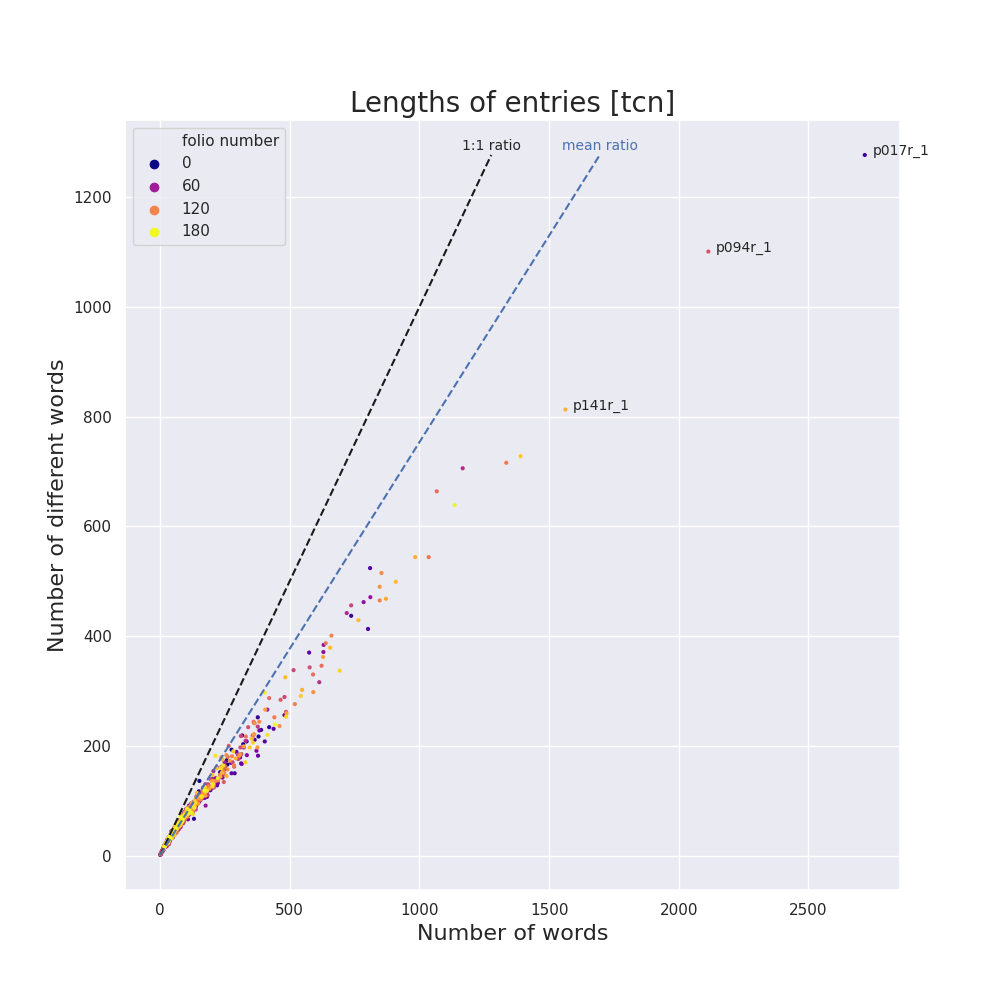
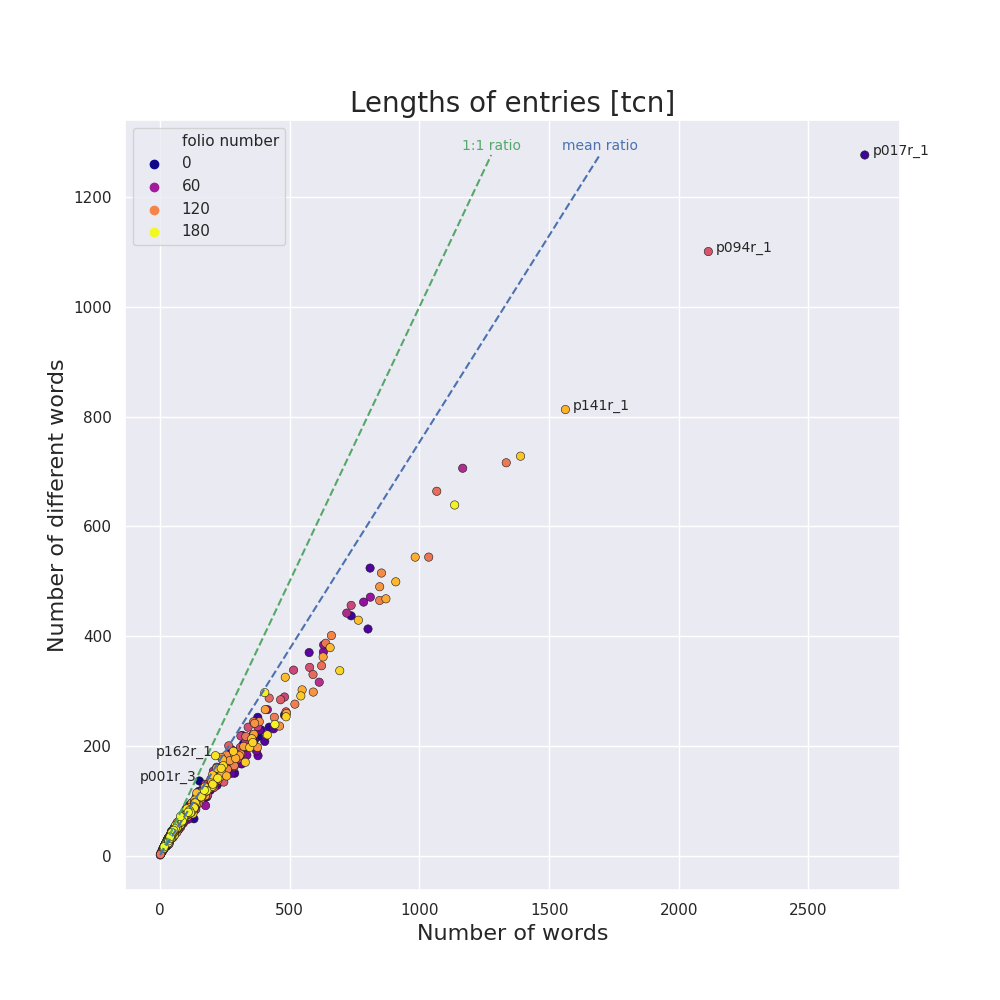
improved scatterplots

diff --git a/manuscript_visualizations.py b/manuscript_visualizations.py
@@ -114,7 +114,8 @@ def tags_bubbleplot(search_tags, ylabels, filename, title):
                 normalized_counts.append(normalized_count)
 
     df = pandas.DataFrame({"entries": entries, "tags": tags, "counts": counts})
-    df_normalized = pandas.DataFrame({"entries": entries, "tags": tags, "counts": normalized_counts})
+    df_normalized = pandas.DataFrame({"entries": entries, "tags": tags,
+                                      "counts": normalized_counts})
 
     data_frames = [df, df_normalized]
     title_appendices = ["", " (normalized by entry length)"]
@@ -196,9 +197,11 @@ def categories_barplot():
 
     barplt.set_ylabel("Number of entries", fontsize = 18)
     barplt.set_xlabel("Categories", fontsize = 18)
-    barplt.set_title("How many entries there are for each category", fontsize = 20)
+    barplt.set_title("How many entries there are for each category",
+                     fontsize = 20)
 
-    barplt.set_xticklabels(barplt.get_xticklabels(), rotation = 90, fontsize = 16)
+    barplt.set_xticklabels(barplt.get_xticklabels(), rotation = 90,
+                           fontsize = 16)
     fig = barplt.get_figure()
     fig.savefig(viz_path + "categories_barplot.png")
     plt.close()
@@ -314,7 +317,8 @@ def tagged_length_barplot(tags, xlabels, filename):
 
         barplt.set_ylabel("Average number of words inside tag", fontsize = 16)
         barplt.set_xlabel("Tag", fontsize = 16)
-        barplt.set_title(f"How many words there inside a tag [{manuscript_version}]", fontsize = 18)
+        barplt.set_title(f"How many words there inside a tag [{manuscript_version}]",
+                         fontsize = 18)
         barplt.set_xticklabels(xlabels, rotation = 90, fontsize = 14)
 
         fig = barplt.get_figure()
@@ -366,6 +370,13 @@ def entries_lengths_scatterplot(logscale):
                                "normalized_lengths": normalized_lengths,
                                "folio number": folios})
 
+        max_words = np.max(lengths)
+        max_diff_words = np.max(normalized_lengths)
+        minmax = np.min([max_words, max_diff_words])
+
+        ratios = [lengths[i]/normalized_lengths[i] for i in range(len(lengths))]
+        mean_ratio = np.mean(ratios)
+
         plt.subplots(figsize = (10, 10))
         #plt.gcf().subplots_adjust(left = 0.05)
         #plt.gcf().subplots_adjust(right = 0.95)
@@ -374,8 +385,8 @@ def entries_lengths_scatterplot(logscale):
 
         scatter = sns.scatterplot(x = "lengths", y = "normalized_lengths",
                                   hue = "folio number", data = df,
-                                  linewidth = 0, alpha = 1, size_norm = 1,
-                                  palette = "plasma", marker = ".")
+                                  linewidth = 0.4, alpha = 1, size_norm = 1,
+                                  palette = "plasma", edgecolor = "k")
 
         for line in range(0, df.shape[0]):
             if (df.lengths[line] > 1500):
@@ -385,6 +396,10 @@ def entries_lengths_scatterplot(logscale):
             if (df.lengths[line] < 2 and logscale):
                 scatter.text(df.lengths[line]*1.1, df.normalized_lengths[line],
                              df.entries[line], horizontalalignment = "left",
+                             fontsize = 10)
+            if (df.entries[line] == "p162r_1" or df.entries[line] == "p001r_3"):
+                scatter.text(df.lengths[line] - 10, df.normalized_lengths[line],
+                             df.entries[line], horizontalalignment = "right",
                              fontsize = 10)
 
         scatter.set_xlabel("Number of words", fontsize = 16)
@@ -400,19 +415,21 @@ def entries_lengths_scatterplot(logscale):
 
         scatter.legend(fancybox = True)
 
-        max_words = np.max(lengths)
-        max_diff_words = np.max(normalized_lengths)
-        minmax = np.min([max_words, max_diff_words])
-        scatter.plot([1, minmax], [1, minmax], "--k")
-        scatter.text(minmax, minmax + 10, "1:1 ratio", horizontalalignment = "center", fontsize = 10)
+        scatter.plot([1, minmax], [1, minmax], "--g")
+        scatter.text(minmax, minmax + 10, "1:1 ratio",
+                     horizontalalignment = "center", fontsize = 10, color = "g")
 
         ratios = [lengths[i]/normalized_lengths[i] for i in range(len(lengths))]
         mean_ratio = np.mean(ratios)
         scatter.plot([1, minmax*mean_ratio], [1, minmax], "--b", alpha = 1)
         if logscale:
-            scatter.text(minmax*mean_ratio, minmax + 200, "mean ratio", horizontalalignment = "center", fontsize = 10, color = "b")
+            scatter.text(minmax*mean_ratio, minmax + 200, "mean ratio",
+                         horizontalalignment = "center", fontsize = 10,
+                         color = "b")
         else:
-            scatter.text(minmax*mean_ratio, minmax + 10, "mean ratio", horizontalalignment = "center", fontsize = 10, color = "b")
+            scatter.text(minmax*mean_ratio, minmax + 10, "mean ratio",
+                         horizontalalignment = "center", fontsize = 10,
+                         color = "b")
 
         fig = scatter.get_figure()
         if logscale:
@@ -467,7 +484,8 @@ def entries_lengths_distplot():
                                bins = np.linspace(0, 800, 40))
 
         distplt.set_xlabel("Word counts")
-        distplt.set_title(f"Density estimate of the lengths of entries [{manuscript_version}]", fontsize = 20)
+        distplt.set_title(f"Density estimate of the lengths of entries [{manuscript_version}]",
+                          fontsize = 20)
         distplt.set_yticklabels([])
         distplt.set_xlim(0, 900)
         distplt.legend(fancybox = True)
@@ -549,8 +567,10 @@ def tags_by_category_swarmplot(search_tags, filename, title):
                 entry_ids2.append(id)
                 categories2.append(cat)
 
-    df_swarm = pandas.DataFrame({"tags": tags, "entry_ids": entry_ids, "categories": categories})
-    df_strip = pandas.DataFrame({"entry_ids": entry_ids2, "categories": categories2})
+    df_swarm = pandas.DataFrame({"tags": tags, "entry_ids": entry_ids,
+                                 "categories": categories})
+    df_strip = pandas.DataFrame({"entry_ids": entry_ids2,
+                                 "categories": categories2})
 
     plt.subplots(figsize = (21, 15))
     plt.gcf().subplots_adjust(right = 0.99)
